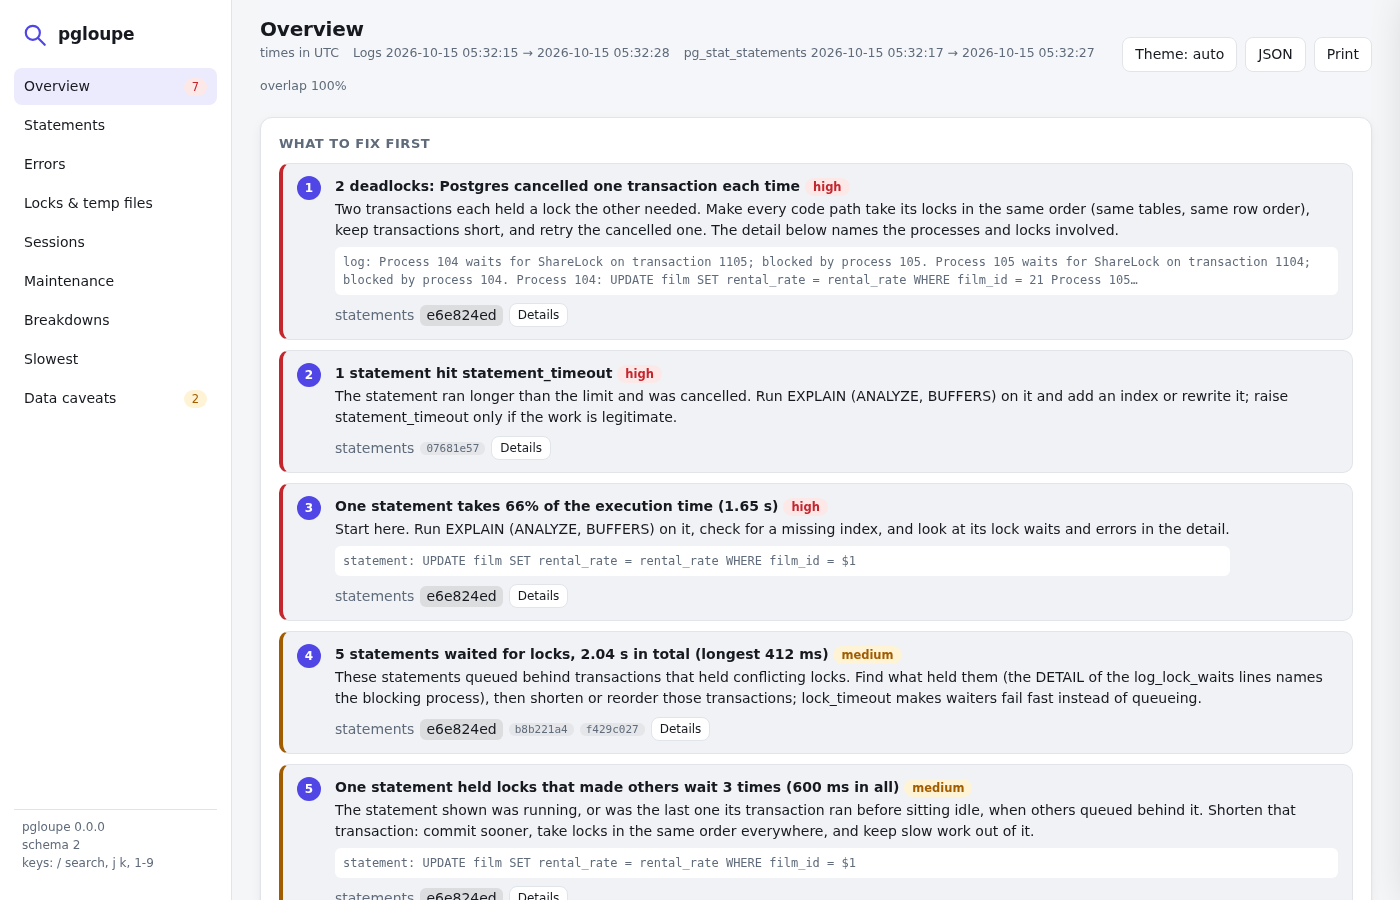
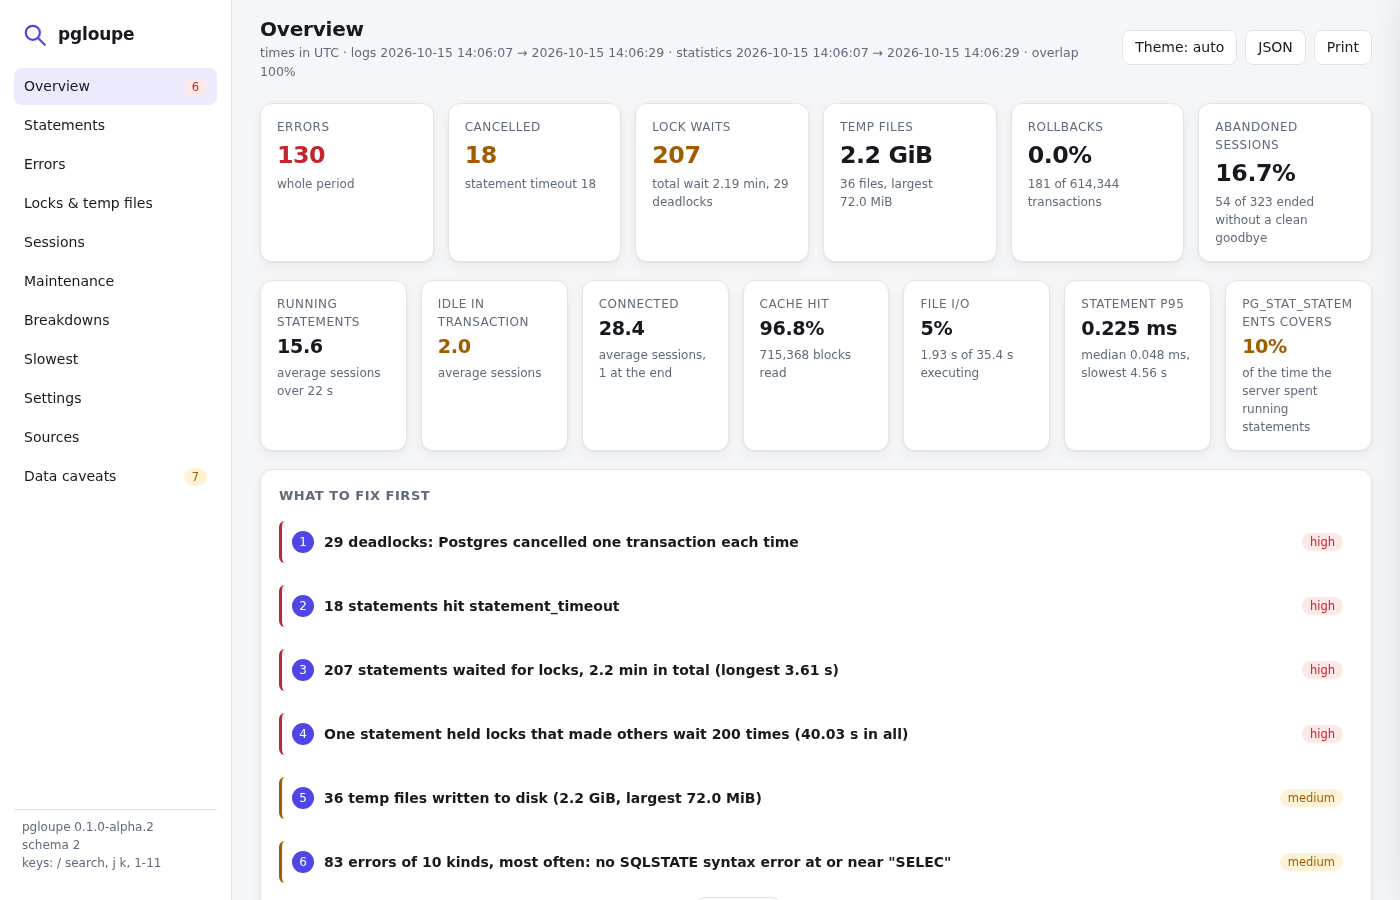
docs: new screenshots, install lists binaries (#23)
KPI cards no longer overflow at 1400 px: the grid items shrink, long values scale with the card, sparklines sit beside the value. Hero screenshots come from a generated PG 17 run with locks, deadlocks, temp files and errors. The README install section now lists the prebuilt installers, Homebrew, cargo-binstall and Docker instead of source-only.

diff --git a/crates/pgloupe/src/combined/templates/app.css b/crates/pgloupe/src/combined/templates/app.css
@@ -54,11 +54,11 @@ html.app #app{display:grid;grid-template-columns:232px minmax(0,1fr);min-height:
 .panel{background:var(--surface);border:1px solid var(--line);border-radius:var(--radius);box-shadow:var(--shadow);padding:16px 18px;min-width:0}
 .panel>h3{margin:0 0 10px;font-size:13px;font-weight:600;color:var(--muted);text-transform:uppercase;letter-spacing:.04em;display:flex;align-items:center;gap:8px}
 .panel>h3 .grow{flex:1}
-.kpi{display:flex;flex-direction:column;gap:2px;padding:14px 16px;position:relative;overflow:hidden}
-.kpi .label{color:var(--muted);font-size:12px;text-transform:uppercase;letter-spacing:.04em}
-.kpi .value{font-size:26px;font-weight:700;letter-spacing:-.02em;font-variant-numeric:tabular-nums}
+.kpi{min-width:0;container-type:inline-size;display:flex;flex-direction:column;gap:2px;padding:14px 16px;position:relative;overflow:hidden}
+.kpi .label{color:var(--muted);font-size:12px;text-transform:uppercase;letter-spacing:.04em;overflow-wrap:anywhere}
+.kpi .value{font-size:clamp(18px,17cqw,26px);white-space:nowrap;font-weight:700;letter-spacing:-.02em;font-variant-numeric:tabular-nums}
 .kpi .hint{color:var(--muted);font-size:12px}
-.kpi .spark{position:absolute;right:10px;top:12px;width:96px;height:28px}
+.kpi .spark{position:absolute;right:10px;top:34px;width:96px;height:28px}
 .kpi.warn .value{color:var(--warn)}.kpi.bad .value{color:var(--bad)}
 .kpi.off .value{color:var(--muted);font-size:16px;font-weight:600;padding:6px 0 4px}
 

diff --git a/README.md b/README.md
@@ -33,13 +33,26 @@ connections. It also tells you which server settings are limiting the report and
 
 ## Install
 
-There are no release binaries yet. Build from source (Rust 1.88 or newer, and `libclang`, which
-`pg_query` needs to build):
+pgloupe is one binary. Every release has prebuilt archives for Linux (x86-64, arm64), macOS (Intel,
+Apple silicon) and Windows (x86-64). Until `0.1.0` ships, releases are alphas, so the commands name
+the version.
 
 ```bash
-# Debian/Ubuntu: sudo apt install libclang-dev   macOS: xcode-select --install
-cargo install --git https://github.com/vtrbraga/pgloupe pgloupe
+# Linux, macOS: installer script
+curl --proto '=https' --tlsv1.2 -LsSf https://github.com/vtrbraga/pgloupe/releases/download/v0.1.0-alpha.2/pgloupe-installer.sh | sh
+
+# Homebrew
+brew install vtrbraga/tap/pgloupe
+
+# Prebuilt, through cargo-binstall
+cargo binstall pgloupe@0.1.0-alpha.2
+
+# Docker
+docker run --rm -v "$PWD:/data" ghcr.io/vtrbraga/pgloupe:0.1.0-alpha.2 report /data/postgresql.log
 ```
+
+Windows (PowerShell), Cargo from source, archives with checksums and attestations, updating and
+uninstalling are in the [install guide](https://vtrbraga.github.io/pgloupe/install.html).
 
 Linux and macOS are tested in CI. Windows builds are experimental.
 
